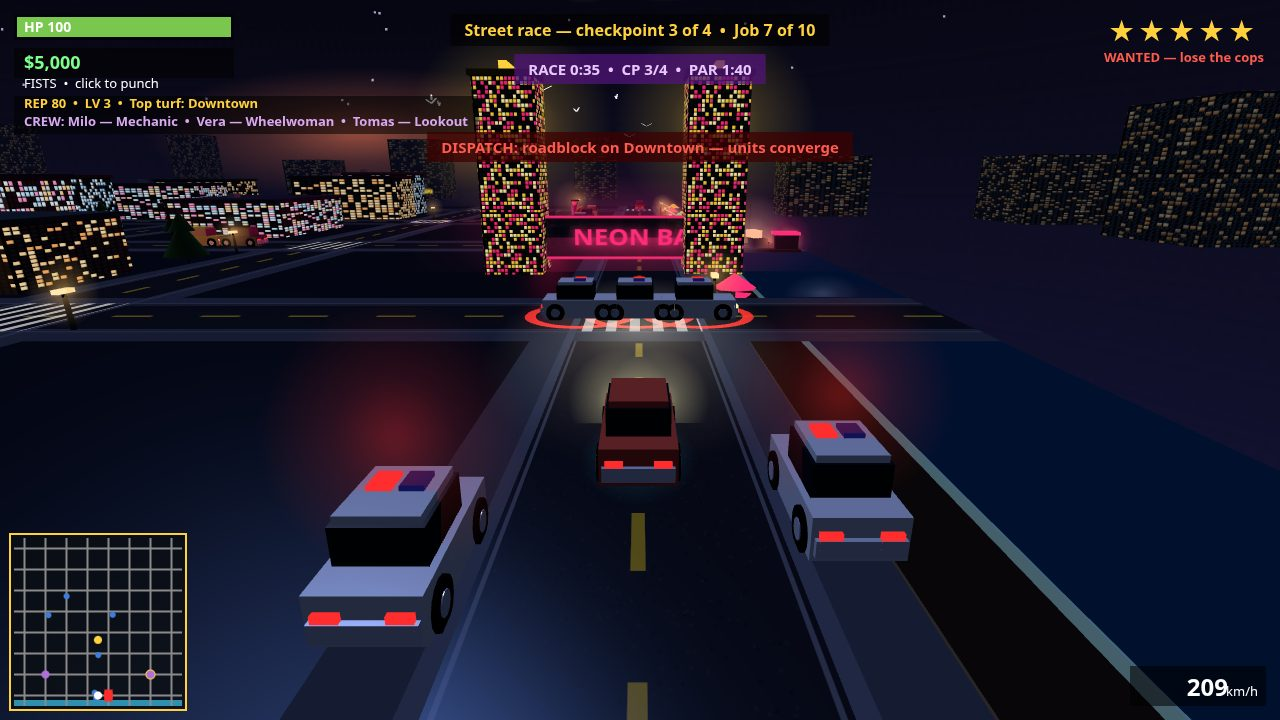
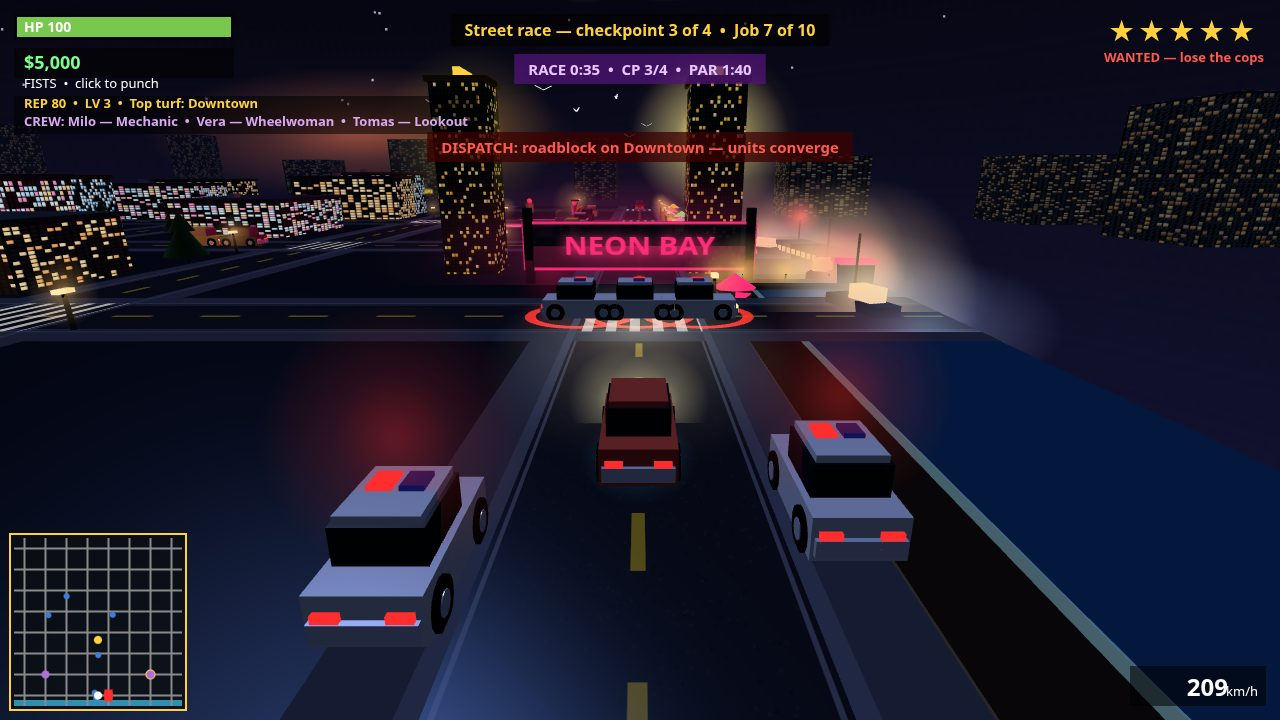
v6.3: calm gold towers, NEON BAY sign in front, lit bay — towers 55%->22% lit gold-only, sign moved west of towers, water brighter with moon path, 3 boats, pier lamps up, freighter + lighthouse

Changed region(s): [[0.3125, 0.0611, 0.8125, 0.4889]]

diff --git a/game/src/render.js b/game/src/render.js
@@ -557,14 +557,20 @@ function buildStatic() {
   const waterH = WORLD.size - WATER_TOP;
   const water = new THREE.Mesh(
     new THREE.PlaneGeometry(WORLD.size, waterH),
-    new THREE.MeshLambertMaterial({ color: 0x0a3049 }),
+    // Phong, not Lambert: the moonlight needs a specular sheen on the sea,
+    // or the whole right half of the cover shot reads as flat black.
+    new THREE.MeshPhongMaterial({ color: 0x14405f, shininess: 90, specular: 0x3a5a78 }),
   );
   water.rotation.x = -Math.PI / 2;
   water.position.set(0, 0.5, tz(WATER_TOP + waterH / 2));
   scene.add(water);
-  // Moon glitter on the water, and a lit boat off the beach: the cover
-  // shot's right half is sea, and it needs something in it.
-  for (const [gx, gy, s, o] of [[2400, 3510, 90, 0.22], [2700, 3530, 120, 0.2], [3000, 3510, 80, 0.22], [3200, 3540, 110, 0.18], [2100, 3530, 70, 0.2], [2900, 3560, 100, 0.18]]) {
+  // Moon glitter on the water, and lit boats off the beach: the cover
+  // shot's right half is sea, and it needs something in it. Brighter and
+  // denser than v6.2 — the old 0.2-opacity specks barely registered.
+  // The moon path sits WEST, close to the cover camera: far-east glitter
+  // compresses onto the sign at the horizon, but near glitter spreads
+  // across the frame's right half instead.
+  for (const [gx, gy, s, o] of [[2400, 3510, 100, 0.38], [2700, 3530, 130, 0.36], [2100, 3530, 80, 0.36], [2900, 3560, 110, 0.34], [1980, 3560, 200, 0.45], [2100, 3575, 220, 0.42], [2220, 3555, 200, 0.45], [2340, 3575, 190, 0.4], [2460, 3560, 170, 0.38]]) {
     const glitter = new THREE.Sprite(new THREE.SpriteMaterial({
       map: makeGlowTexture(), color: 0xbdd0ff, transparent: true, opacity: o, depthWrite: false,
     }));
@@ -572,7 +578,11 @@ function buildStatic() {
     glitter.position.set(tx(gx), 3, tz(gy));
     scene.add(glitter);
   }
-  {
+  // Three lit boats spread across the sea side, so the cover shot's right
+  // half has boats at near, middle and far distance, not one dim speck.
+  // Pulled west, toward the cover camera: far-east boats compress onto
+  // the sign at the horizon, near boats spread across the right half.
+  for (const [bx, by, rot] of [[2050, 3545, 0.3], [2200, 3560, -0.5], [2400, 3535, 0.8]]) {
     const boat = new THREE.Group();
     const hull = new THREE.Mesh(
       new THREE.BoxGeometry(64, 12, 20),
@@ -593,13 +603,13 @@ function buildStatic() {
     mast.position.set(10, 32, 0);
     boat.add(mast);
     const glow = new THREE.Sprite(new THREE.SpriteMaterial({
-      map: makeGlowTexture(), color: 0xffd9a0, transparent: true, opacity: 0.5, depthWrite: false,
+      map: makeGlowTexture(), color: 0xffd9a0, transparent: true, opacity: 0.75, depthWrite: false,
     }));
-    glow.scale.set(120, 120, 1);
+    glow.scale.set(180, 180, 1);
     glow.position.set(-6, 16, 0);
     boat.add(glow);
-    boat.position.set(tx(2520), 0, tz(3545));
-    boat.rotation.y = 0.3;
+    boat.position.set(tx(bx), 0, tz(by));
+    boat.rotation.y = rot;
     scene.add(boat);
   }
   // A lit pier reaching into the sea off the beach, with lamps and a pink
@@ -623,9 +633,9 @@ function buildStatic() {
     }
     for (const pz of [-50, -10, 30, 58]) {
       const lamp = new THREE.Sprite(new THREE.SpriteMaterial({
-        map: makeGlowTexture(), color: 0xffc46a, transparent: true, opacity: 0.55, depthWrite: false,
+        map: makeGlowTexture(), color: 0xffc46a, transparent: true, opacity: 0.8, depthWrite: false,
       }));
-      lamp.scale.set(44, 44, 1);
+      lamp.scale.set(80, 80, 1);
       lamp.position.set(0, 14, pz);
       pier.add(lamp);
       const pole = new THREE.Mesh(
@@ -648,13 +658,88 @@ function buildStatic() {
     hutRoof.position.set(0, 24, 52);
     pier.add(hutRoof);
     const hutGlow = new THREE.Sprite(new THREE.SpriteMaterial({
-      map: makeGlowTexture(), color: 0xff2d78, transparent: true, opacity: 0.5, depthWrite: false,
+      map: makeGlowTexture(), color: 0xff2d78, transparent: true, opacity: 0.7, depthWrite: false,
     }));
-    hutGlow.scale.set(80, 80, 1);
+    hutGlow.scale.set(100, 100, 1);
     hutGlow.position.set(0, 16, 52);
     pier.add(hutGlow);
-    pier.position.set(tx(2420), 0, tz(3520));
+    pier.position.set(tx(2150), 0, tz(3520));
     scene.add(pier);
+  }
+  // A distant freighter on the horizon: a dark hull with a row of warm
+  // cabin windows and a red mast light, so the sea has a far edge.
+  // Windows face -z (toward the beach-road camera); the hull's long side
+  // runs east-west so the camera sees the lit side, not the stern.
+  // Pulled west toward the arch so it sits inside the cover frame.
+  {
+    const ship = new THREE.Group();
+    const hull = new THREE.Mesh(
+      new THREE.BoxGeometry(170, 20, 40),
+      new THREE.MeshLambertMaterial({ color: 0x141a24 }),
+    );
+    hull.position.y = 8;
+    ship.add(hull);
+    const winMat = new THREE.MeshBasicMaterial({ color: 0xffd9a0 });
+    for (let i = 0; i < 11; i += 1) {
+      const win = new THREE.Mesh(new THREE.BoxGeometry(7, 6, 2), winMat);
+      win.position.set(-75 + i * 15, 10, -21);
+      ship.add(win);
+    }
+    const mast = new THREE.Mesh(
+      new THREE.CylinderGeometry(1, 1, 34, 6),
+      new THREE.MeshLambertMaterial({ color: 0x2a2e36 }),
+    );
+    mast.position.set(20, 28, 0);
+    ship.add(mast);
+    const mastLight = new THREE.Sprite(new THREE.SpriteMaterial({
+      map: makeGlowTexture(), color: 0xff5a5a, transparent: true, opacity: 0.85, depthWrite: false,
+    }));
+    mastLight.scale.set(55, 55, 1);
+    mastLight.position.set(20, 48, 0);
+    ship.add(mastLight);
+    ship.position.set(tx(2350), 0, tz(3580));
+    ship.rotation.y = 0.15;
+    scene.add(ship);
+  }
+  // A lighthouse at the east end of the beach: striped tower with a bright
+  // lamp, so the cover shot's far right has a landmark instead of a void.
+  // Pulled west toward the arch and scaled up, so it reads in the cover
+  // frame instead of vanishing at the horizon.
+  {
+    const light = new THREE.Group();
+    const base = new THREE.Mesh(
+      new THREE.CylinderGeometry(14, 18, 55, 10),
+      new THREE.MeshLambertMaterial({ color: 0xe8e4da }),
+    );
+    base.position.y = 27;
+    light.add(base);
+    const band = new THREE.Mesh(
+      new THREE.CylinderGeometry(12, 14, 22, 10),
+      new THREE.MeshLambertMaterial({ color: 0xc23a2e }),
+    );
+    band.position.y = 66;
+    light.add(band);
+    const top = new THREE.Mesh(
+      new THREE.CylinderGeometry(10, 12, 28, 10),
+      new THREE.MeshLambertMaterial({ color: 0xe8e4da }),
+    );
+    top.position.y = 91;
+    light.add(top);
+    const lampRoom = new THREE.Mesh(
+      new THREE.BoxGeometry(16, 12, 16),
+      new THREE.MeshBasicMaterial({ color: 0xfff2b0 }),
+    );
+    lampRoom.position.y = 110;
+    light.add(lampRoom);
+    const lampGlow = new THREE.Sprite(new THREE.SpriteMaterial({
+      map: makeGlowTexture(), color: 0xfff2b0, transparent: true, opacity: 0.95, depthWrite: false,
+    }));
+    lampGlow.scale.set(170, 170, 1);
+    lampGlow.position.y = 110;
+    light.add(lampGlow);
+    light.scale.set(1.35, 1.35, 1.35);
+    light.position.set(tx(2470), 0, tz(3472));
+    scene.add(light);
   }
 
   // Roads and sidewalks: all strips merged into two meshes (one for the
@@ -944,7 +1029,8 @@ function buildStatic() {
     }
     // Beachfront promenade lamps: a warm dotted line along the sand, so
     // the cover shot's right half has light instead of a dark void.
-    for (let i = 0; i < 6; i += 1) lamps.push({ x: 2050 + i * 230, y: 3432 });
+    // Eight lamps now, reaching east to the lighthouse.
+    for (let i = 0; i < 8; i += 1) lamps.push({ x: 2050 + i * 190, y: 3432 });
     const poleGeo = new THREE.CylinderGeometry(1.4, 1.8, 26, 6);
     const poleMat = new THREE.MeshLambertMaterial({ color: 0x23262e });
     const poles = new THREE.InstancedMesh(poleGeo, poleMat, lamps.length);
@@ -1012,7 +1098,9 @@ function buildStatic() {
   // towers, one on the promenade side and one at the waterline, so the
   // cover shot has a landmark pair in frame instead of an empty right half.
   {
-    const goldTex = makeWindowTexture('#241a08', ['#ffd23d', '#ff2d78', '#fff2a8'], 77, 0.55);
+    // Gold-only palette, ~1 in 5 windows lit: the v6.2 towers were a
+    // pink/yellow confetti column at 55% lit. Calm gold, dark bronze base.
+    const goldTex = makeWindowTexture('#1d1506', ['#ffd23d', '#ffb347', '#ffe9a8'], 77, 0.22);
     // Tall thin towers: tile the facade texture vertically so the windows
     // stay square instead of stretching into pink/yellow bars.
     for (const t of [goldTex.map, goldTex.emissive]) {
@@ -1022,26 +1110,28 @@ function buildStatic() {
     }
     const goldMat = new THREE.MeshPhongMaterial({
       map: goldTex.map, emissiveMap: goldTex.emissive, emissive: 0xffffff,
-      emissiveIntensity: 1.15, color: 0x777777, shininess: 30, specular: 0x222222,
+      emissiveIntensity: 0.7, color: 0x777777, shininess: 30, specular: 0x222222,
     });
-    for (const [gx, gy] of [[2250, 3245], [2250, 3452]]) {
+    // North tower nudged further from the arch so the pair frames the sign
+    // instead of crowding it; the south tower stays on the beach.
+    for (const [gx, gy] of [[2250, 3200], [2250, 3452]]) {
       const tower = new THREE.Mesh(boxGeo, goldMat);
-      tower.scale.set(60, 190, 60);
-      tower.position.set(tx(gx), 95, tz(gy));
+      tower.scale.set(54, 185, 54);
+      tower.position.set(tx(gx), 92.5, tz(gy));
       scene.add(tower);
       const cap = new THREE.Mesh(boxGeo, new THREE.MeshLambertMaterial({ color: 0x6b4d12 }));
-      cap.scale.set(66, 5, 66);
-      cap.position.set(tx(gx), 192, tz(gy));
+      cap.scale.set(60, 5, 60);
+      cap.position.set(tx(gx), 187, tz(gy));
       scene.add(cap);
       const crown = new THREE.Mesh(boxGeo, new THREE.MeshBasicMaterial({ color: 0xffd23d }));
-      crown.scale.set(50, 10, 8);
-      crown.position.set(tx(gx), 198, tz(gy));
+      crown.scale.set(46, 10, 7);
+      crown.position.set(tx(gx), 193, tz(gy));
       scene.add(crown);
       const halo = new THREE.Sprite(new THREE.SpriteMaterial({
-        map: glowTexture, color: 0xffd23d, transparent: true, opacity: 0.4, depthWrite: false,
+        map: glowTexture, color: 0xffd23d, transparent: true, opacity: 0.32, depthWrite: false,
       }));
-      halo.scale.set(220, 220, 1);
-      halo.position.set(tx(gx), 150, tz(gy));
+      halo.scale.set(190, 190, 1);
+      halo.position.set(tx(gx), 140, tz(gy));
       scene.add(halo);
     }
   }

diff --git a/game/src/city.js b/game/src/city.js
@@ -149,7 +149,7 @@ export const NEON_SIGNS = [
   { x: 1705, y: 2104, w: 96, h: 34, text: 'GOLDEN PALMS', color: '#ffd23d', angle: -Math.PI / 2 },
   { x: 1815, y: 2104, w: 96, h: 30, text: 'NEON BAY', color: '#ff2d78', angle: -Math.PI / 2 },
   { x: 1912, y: 2104, w: 70, h: 30, text: 'JACKPOT', color: '#2de8ff', angle: -Math.PI / 2 },
-  { x: 2250, y: 3375, w: 220, h: 46, text: 'NEON BAY', color: '#ff2d78', angle: Math.PI },
+  { x: 2170, y: 3375, w: 220, h: 46, text: 'NEON BAY', color: '#ff2d78', angle: Math.PI },
   { x: 1125, y: 3375, w: 150, h: 36, text: 'CASINO STRIP', color: '#ffd23d', angle: Math.PI },
 ];
 
